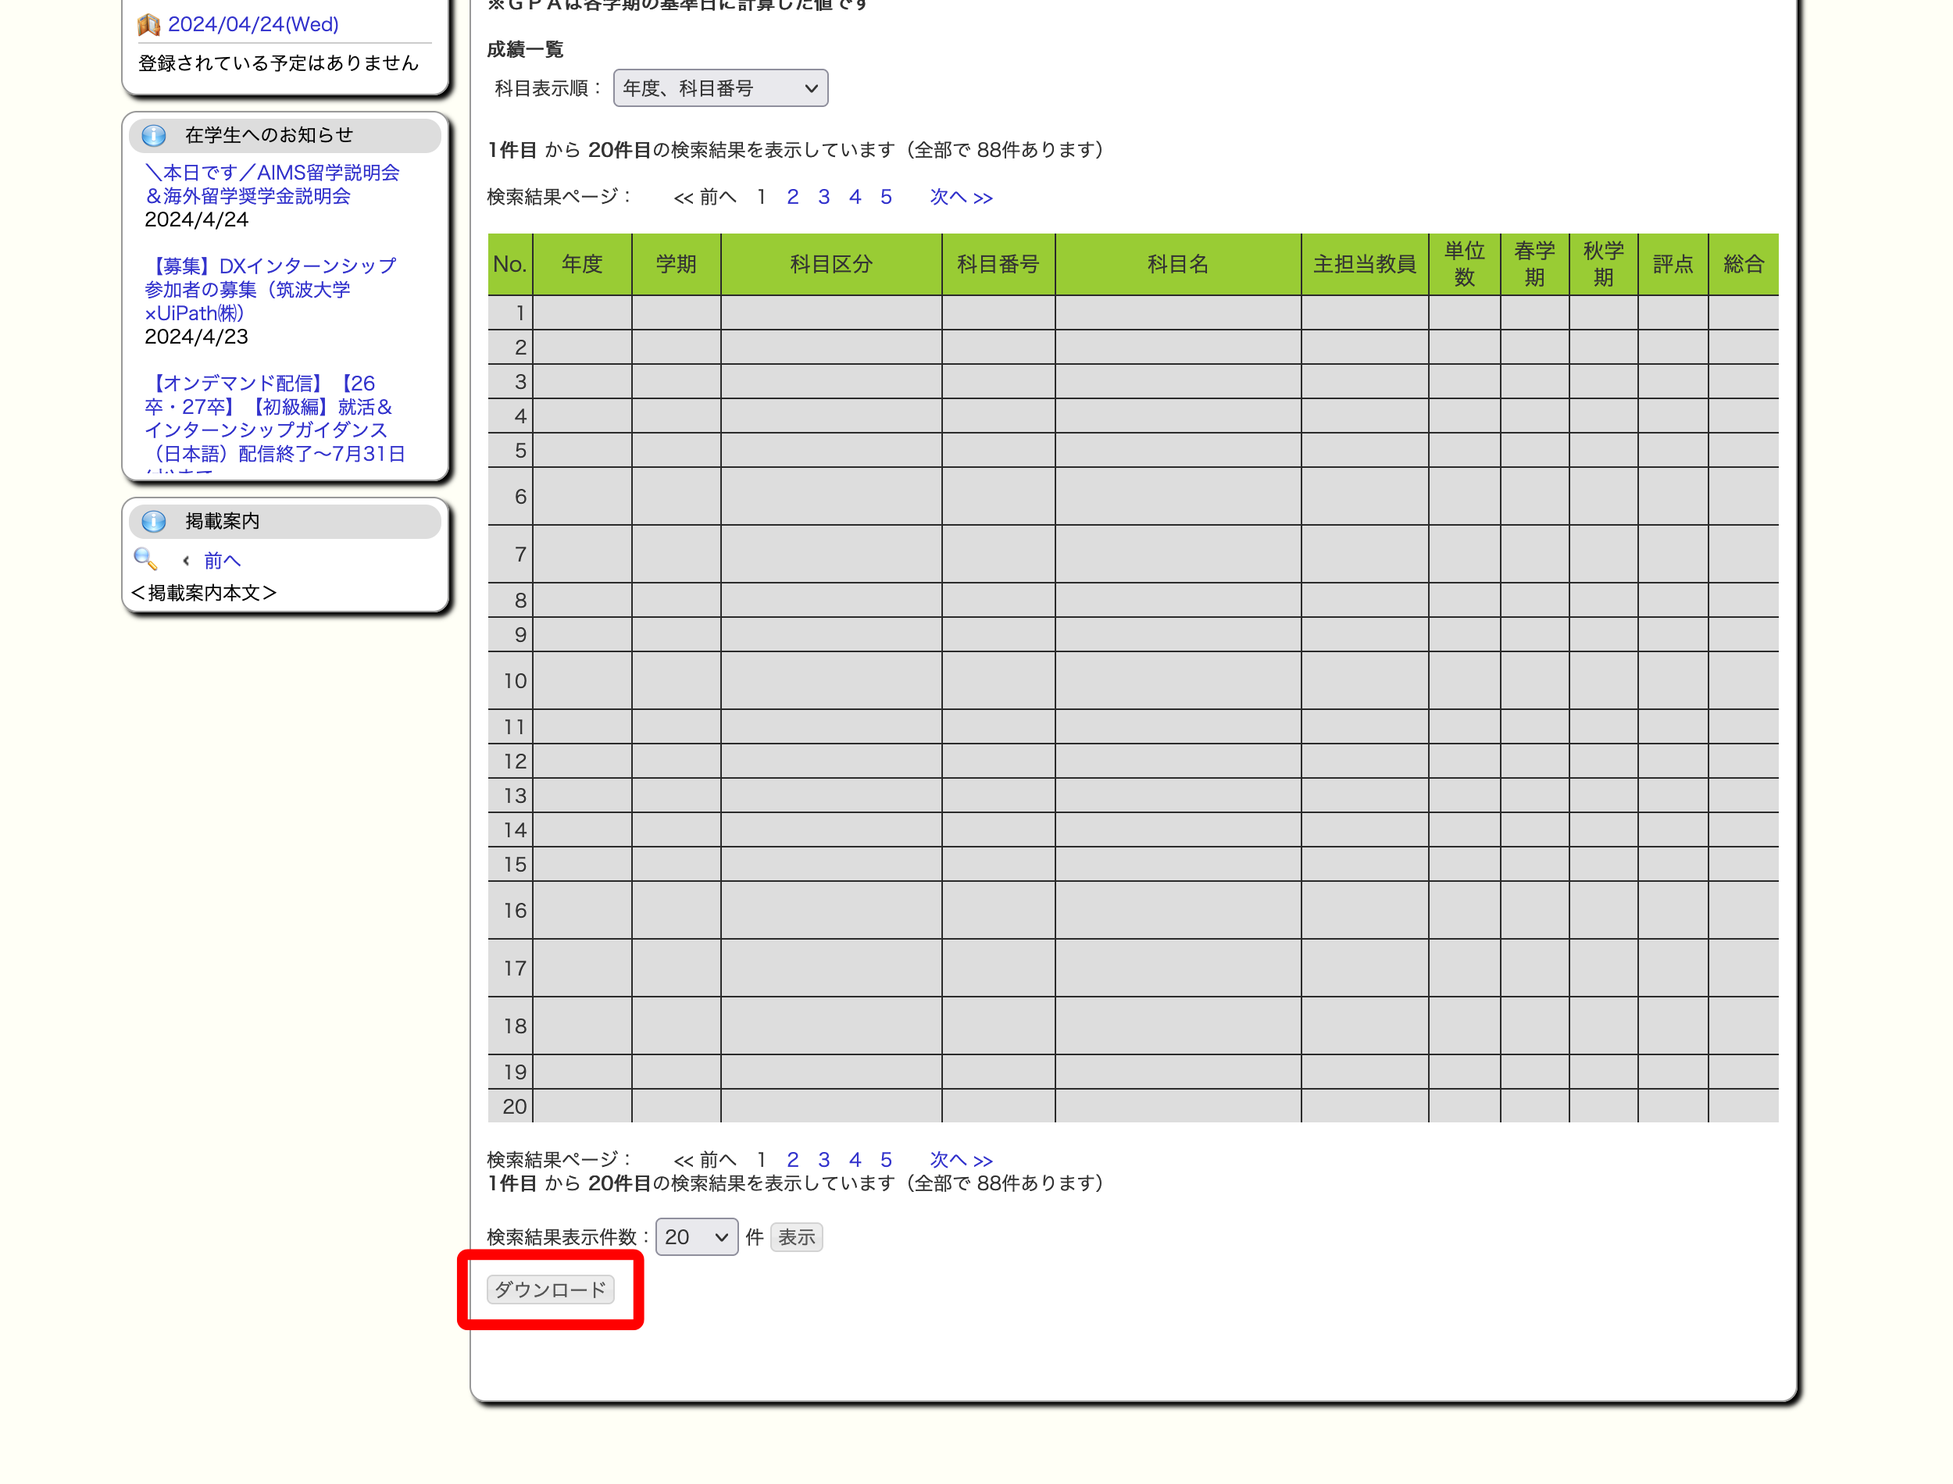
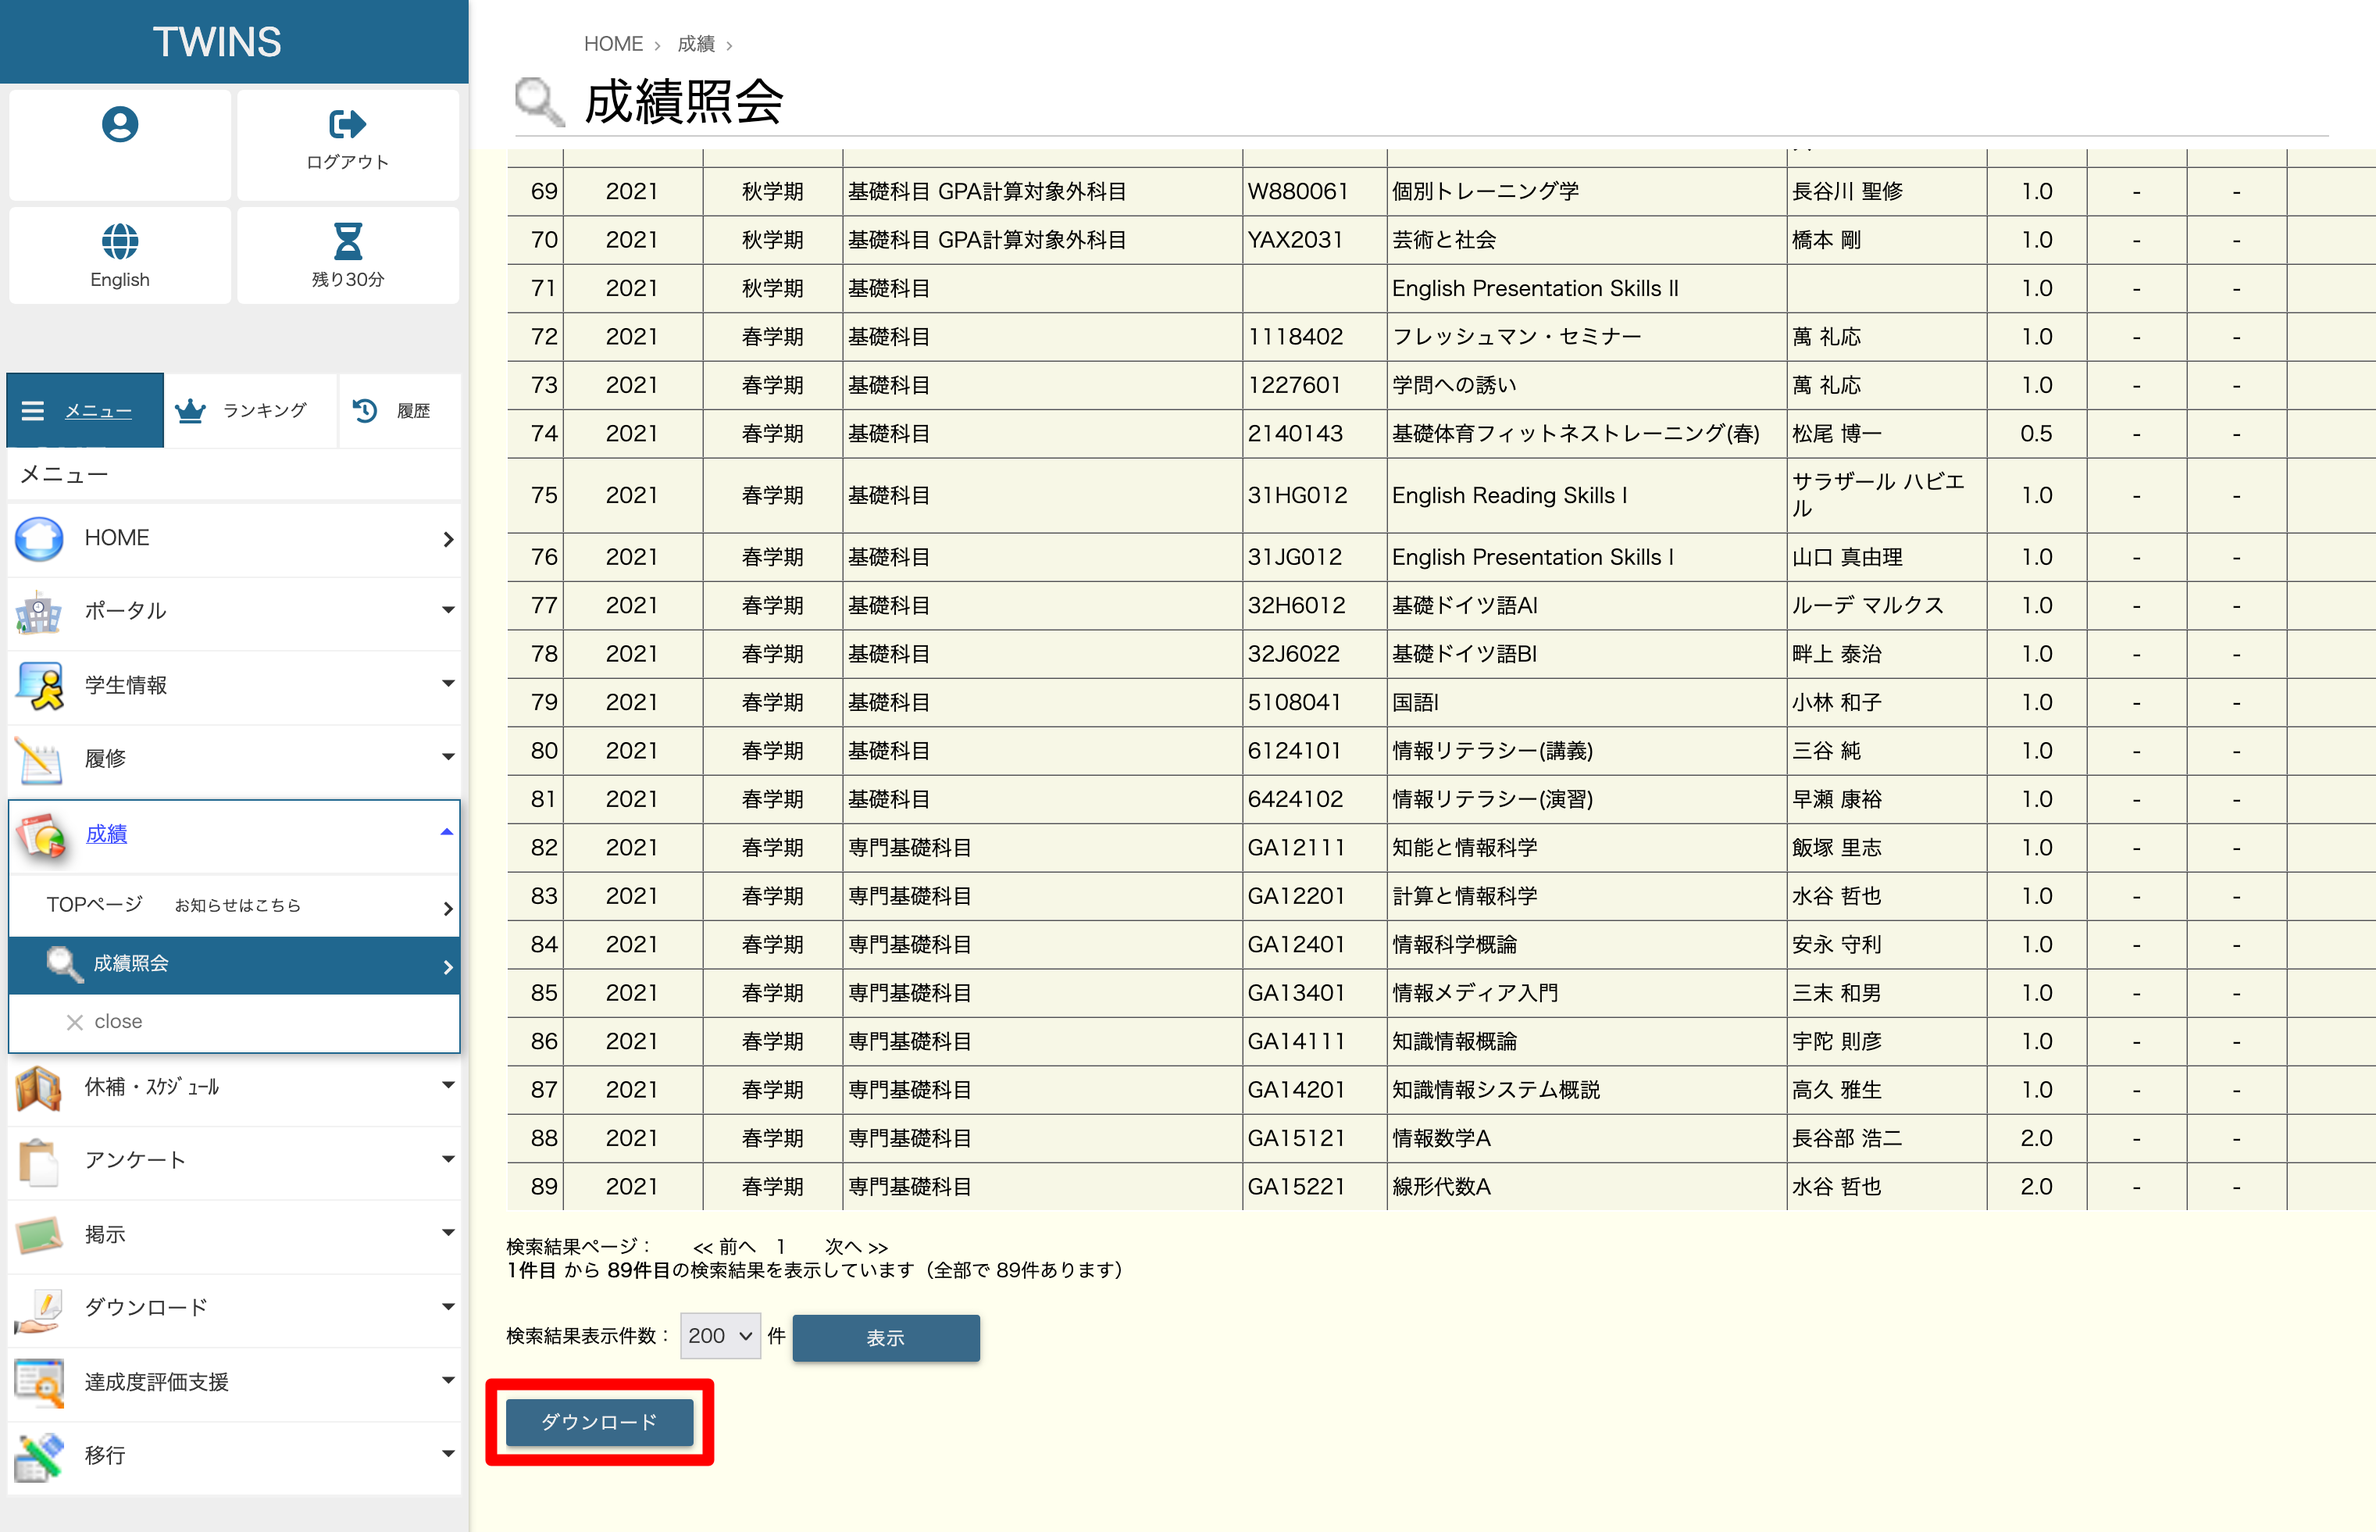
add disclaimer and update screenshots

diff --git a/docs/help.md b/docs/help.md
@@ -14,6 +14,10 @@ header-includes: |
   </style>
 ---
 
+> ⚠ あきこは筑波大学が公式に作成したものではなく有志の学生が作成したものなので、授業一覧や単位計算に誤りがある可能性があります。
+> 卒業に必要な単位をあきこで管理する場合は、利用者本人の責任のもとで管理してしてください。
+> また、不明な点がある場合は、学生支援室にて相談するようにしてください。
+
 ## あきこの使い方
 
 自分の学類と入学年度に対応するページを開きます。
@@ -31,11 +35,11 @@ header-includes: |
 ## TWINSの成績データをダウンロードする手順
 
 1. TWINSにログインします。
-2. 「成績」タブを開きます。
+2. 「成績」の中にある「成績照会」タブを開きます。
    ![](images/grades-tab.png)
 3. ページの一番下にある「ダウンロード」ボタンを押します。
    ![](images/download-button.png)
-4. ファイル形式を「CSV」、文字コードを「Unicode」にして「出力」ボタンを押します。
+4. ファイル形式を「CSV」、文字コードを「Unicode」、BOM有無を「BOMなし」にして「出力」ボタンを押します。
    ![](images/export-button.png)
 
 これでダウンロードされるファイルがTWINSの成績ファイルです。
@@ -47,7 +51,7 @@ header-includes: |
 以下の手順でこのファイルをTWINSにインポートすることで、「取るかもしれない」に移動した授業をTWINSにまとめて履修登録することができます。
 
 1. TWINSにログインします。
-2. 「履修」タブを開きます。
+2. 「履修」の中にある「履修登録・登録状況照会」タブを開きます。
    ![](images/register-tab.png)
 3. 履修登録期間中の学期を選択すると現れる「アップロード」ボタンを押します。
    ![](images/upload-button.png)
